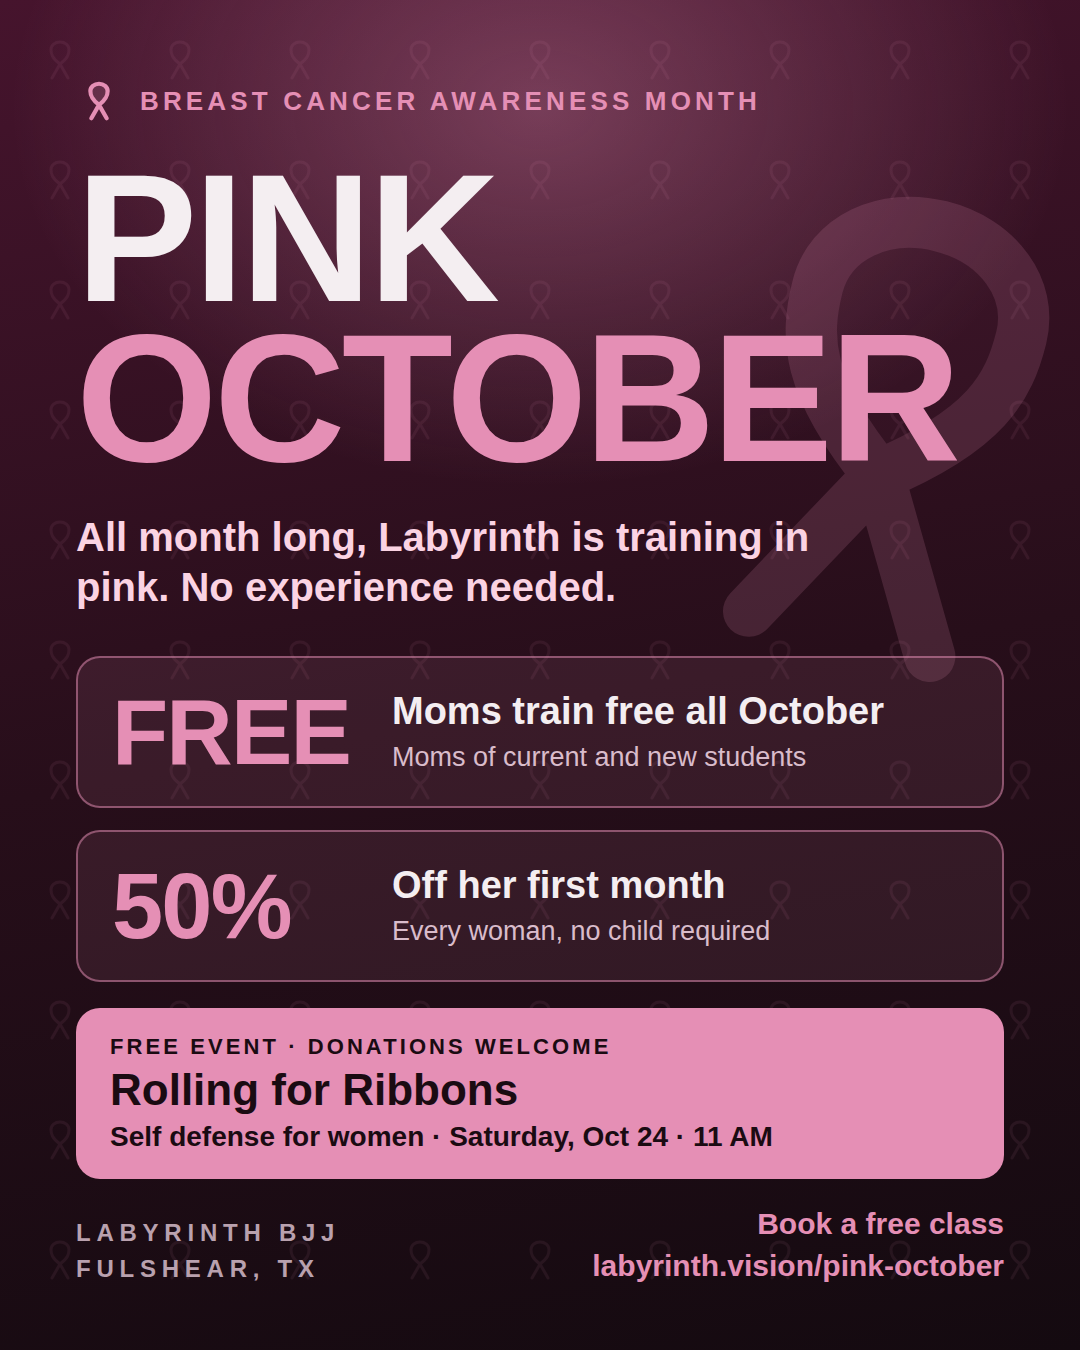
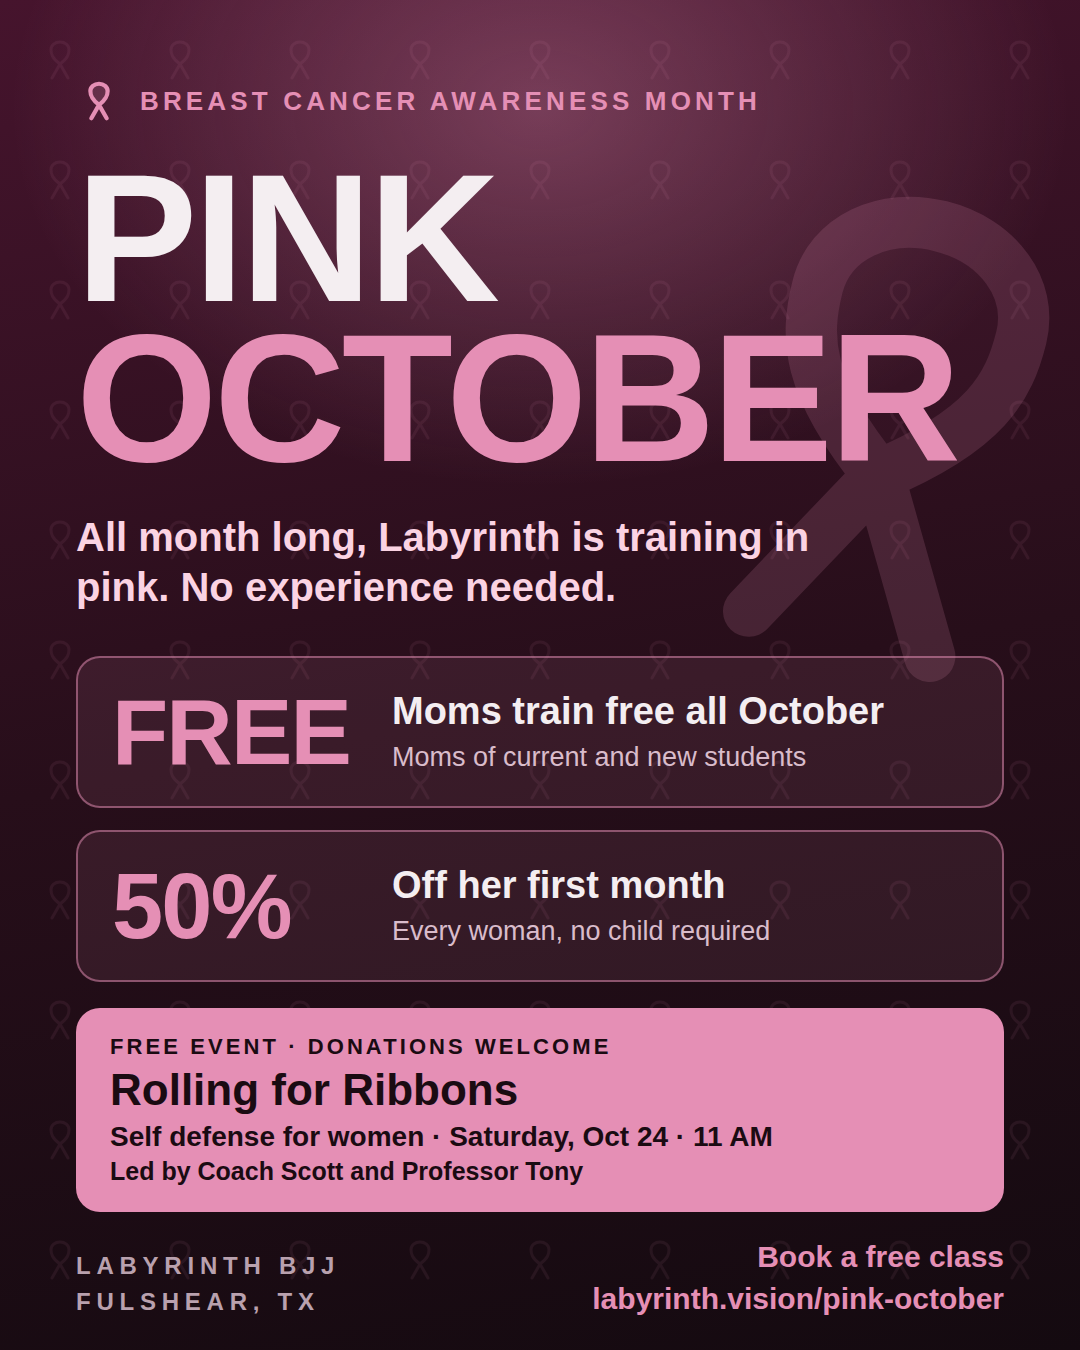
Name the seminar's instructors: Coach Scott and Professor Tony
Adds a Your instructors section to the event page (each card links to the
coach's page), lists both as performers in the Event data, and adds the line to
the Instagram image and caption.

Claude-Session: https://claude.ai/code/session_01T1jcBhMbJVQd3Vp58LzqMh

Changed region(s): [[0.0611, 0.84, 0.9472, 0.9956]]

diff --git a/self-defense-for-women.html b/self-defense-for-women.html
@@ -16,7 +16,7 @@
 <noscript><link href="https://api.fontshare.com/v2/css?f[]=clash-display@400,500,600,700&f[]=general-sans@300,400,500,600,700&display=swap" rel="stylesheet"></noscript>
 <link rel="stylesheet" href="/base.css?v=04502d32">
 <link rel="stylesheet" href="/style.css?v=7df78c7c">
-<link rel="stylesheet" href="/programs.css?v=0acf568b">
+<link rel="stylesheet" href="/programs.css?v=88cbf450">
 <link rel="stylesheet" href="/booking.css?v=6073b089">
 
 <title>Rolling for Ribbons: BJJ for Self Defense for Women | Free Seminar, Oct 24 | Labyrinth BJJ Fulshear</title>
@@ -80,6 +80,18 @@
     "name": "Labyrinth BJJ",
     "url": "https://labyrinth.vision"
   },
+  "performer": [
+    {
+      "@type": "Person",
+      "name": "Scott Jones",
+      "url": "https://labyrinth.vision/coaches/scott-jones"
+    },
+    {
+      "@type": "Person",
+      "name": "Anthony Curry",
+      "url": "https://labyrinth.vision/coaches/anthony-curry"
+    }
+  ],
   "offers": {
     "@type": "Offer",
     "url": "https://labyrinth.vision/self-defense-for-women",
@@ -236,6 +248,33 @@
     </div>
 
     <p class="rsvp__over" id="rsvp-over" hidden>This event has passed. Thank you to everyone who came. See what is coming up on the <a href="/schedule">schedule</a>.</p>
+  </div>
+</section>
+
+<section class="prog-section rsvp-led" id="instructors">
+  <div class="container">
+    <div>
+      <p class="section-label rsvp-label"><svg class="ribbon" width="16" height="16" viewBox="0 0 24 24" fill="none" stroke="currentColor" stroke-width="2.2" stroke-linecap="round" stroke-linejoin="round" aria-hidden="true" focusable="false"><path d="M12 14C8 11 7.5 9 7.5 6.8 7.5 4.6 9.5 3 12 3s4.5 1.6 4.5 3.8C16.5 9 16 11 12 14zM12 14 8 21M12 14l4 7" fill="currentColor" fill-opacity=".18"/></svg>Your instructors</p>
+      <h2 class="section-title section-title--lg">LED BY COACH SCOTT AND PROFESSOR TONY</h2>
+    </div>
+    <div class="rsvp-led__grid">
+      <a class="rsvp-led__card" href="/coaches/scott-jones">
+        <picture><source srcset="/assets/coach-scott.webp" type="image/webp"><img src="/assets/coach-scott.jpg" alt="Coach Scott Jones" width="96" height="96" loading="lazy"></picture>
+        <span class="rsvp-led__body">
+          <strong>Coach Scott Jones</strong>
+          <em>7th dan Taekwondo black belt, BJJ brown belt</em>
+          <span>Scott has a lot of experience with self defense and more than 27 years in MMA. He founded Team Legacy Martial Arts and now coaches full time at Labyrinth.</span>
+        </span>
+      </a>
+      <a class="rsvp-led__card" href="/coaches/anthony-curry">
+        <picture><source srcset="/assets/coach-tony.webp" type="image/webp"><img src="/assets/coach-tony.jpg" alt="Professor Anthony Curry" width="96" height="96" loading="lazy"></picture>
+        <span class="rsvp-led__body">
+          <strong>Professor Anthony Curry</strong>
+          <em>Founder and head instructor, BJJ black belt</em>
+          <span>Tony has trained for more than 14 years and started Labyrinth in Fulshear in 2021. He teaches the jiu-jitsu this seminar is built on.</span>
+        </span>
+      </a>
+    </div>
   </div>
 </section>
 

diff --git a/scripts/instagram-pink-october.html b/scripts/instagram-pink-october.html
@@ -23,6 +23,7 @@
   .event small { display: block; font-size: 22px; font-weight: 800; letter-spacing: .14em; text-transform: uppercase; }
   .event b { display: block; margin-top: 6px; font-size: 44px; line-height: 1.1; font-weight: 900; }
   .event span { display: block; margin-top: 6px; font-size: 28px; font-weight: 700; }
+  .event .led { margin-top: 4px; font-size: 25px; font-weight: 600; }
   .foot { margin-top: auto; padding-top: 24px; display: flex; justify-content: space-between; align-items: flex-end; }
   .brand { font-size: 24px; letter-spacing: .24em; font-weight: 700; color: #b9a1ae; line-height: 1.5; }
   .link { font-size: 30px; font-weight: 800; color: #E58FB5; text-align: right; line-height: 1.4; }
@@ -37,7 +38,7 @@
       <div class="offer"><div class="big">FREE</div><div><b>Moms train free all October</b><span>Moms of current and new students</span></div></div>
       <div class="offer"><div class="big">50%</div><div><b>Off her first month</b><span>Every woman, no child required</span></div></div>
     </div>
-    <div class="event"><small>Free event &middot; Donations welcome</small><b>Rolling for Ribbons</b><span>Self defense for women &middot; Saturday, Oct 24 &middot; 11 AM</span></div>
+    <div class="event"><small>Free event &middot; Donations welcome</small><b>Rolling for Ribbons</b><span>Self defense for women &middot; Saturday, Oct 24 &middot; 11 AM</span><span class="led">Led by Coach Scott and Professor Tony</span></div>
     <div class="foot">
       <div class="brand">LABYRINTH BJJ<br>FULSHEAR, TX</div>
       <div class="link">Book a free class<br>labyrinth.vision/pink-october</div>

diff --git a/programs.css b/programs.css
@@ -1406,3 +1406,29 @@ body.theme-pink main .prog-section--surface {
   letter-spacing: 0.01em;
   color: #fbd3e3;
 }
+
+/* Who leads the seminar: two cards, each linking to the coach's page. */
+.rsvp-led__grid { display: grid; gap: 16px; margin-top: var(--space-6); }
+.rsvp-led__card {
+  display: grid;
+  grid-template-columns: 76px 1fr;
+  gap: 16px;
+  align-items: start;
+  padding: 18px 20px;
+  border: 1px solid var(--awareness-line);
+  border-radius: 14px;
+  background: var(--awareness-soft);
+  color: var(--text);
+  text-decoration: none;
+  transition: border-color 0.2s, transform 0.2s, background 0.2s;
+}
+.rsvp-led__card:hover { border-color: var(--awareness); background: rgba(229, 143, 181, 0.16); transform: translateY(-2px); }
+.rsvp-led__card img { width: 76px; height: 76px; border-radius: 50%; object-fit: cover; border: 2px solid var(--awareness-line); display: block; }
+.rsvp-led__body { display: flex; flex-direction: column; gap: 4px; color: var(--text-muted); font-size: 14.5px; line-height: 1.5; }
+.rsvp-led__body strong { color: var(--text); font-size: 17px; }
+.rsvp-led__body em { color: var(--awareness); font-style: normal; font-weight: 600; font-size: 13.5px; }
+@media (min-width: 760px) {
+  .rsvp-led__grid { grid-template-columns: 1fr 1fr; }
+  .rsvp-led__card { grid-template-columns: 96px 1fr; }
+  .rsvp-led__card img { width: 96px; height: 96px; }
+}

diff --git a/pink-october.html b/pink-october.html
@@ -16,7 +16,7 @@
 <noscript><link href="https://api.fontshare.com/v2/css?f[]=clash-display@400,500,600,700&f[]=general-sans@300,400,500,600,700&display=swap" rel="stylesheet"></noscript>
 <link rel="stylesheet" href="/base.css?v=04502d32">
 <link rel="stylesheet" href="/style.css?v=7df78c7c">
-<link rel="stylesheet" href="/programs.css?v=0acf568b">
+<link rel="stylesheet" href="/programs.css?v=88cbf450">
 <link rel="stylesheet" href="/booking.css?v=6073b089">
 
 <title>Pink October: Moms Train Free, 50% Off for Women | Labyrinth BJJ Fulshear</title>

diff --git a/coaches/scott-jones.html b/coaches/scott-jones.html
@@ -16,7 +16,7 @@
 <noscript><link href="https://api.fontshare.com/v2/css?f[]=clash-display@400,500,600,700&f[]=general-sans@300,400,500,600,700&display=swap" rel="stylesheet"></noscript>
 <link rel="stylesheet" href="/base.css?v=04502d32">
 <link rel="stylesheet" href="/style.css?v=7df78c7c">
-<link rel="stylesheet" href="/programs.css?v=0acf568b">
+<link rel="stylesheet" href="/programs.css?v=88cbf450">
 <link rel="stylesheet" href="/booking.css?v=6073b089">
 
 <title>Scott Jones: MMA Conditioning &amp; Taekwondo | Labyrinth BJJ Fulshear</title>

diff --git a/areas/index.html b/areas/index.html
@@ -16,7 +16,7 @@
 <noscript><link href="https://api.fontshare.com/v2/css?f[]=clash-display@400,500,600,700&f[]=general-sans@300,400,500,600,700&display=swap" rel="stylesheet"></noscript>
 <link rel="stylesheet" href="/base.css?v=04502d32">
 <link rel="stylesheet" href="/style.css?v=7df78c7c">
-<link rel="stylesheet" href="/programs.css?v=0acf568b">
+<link rel="stylesheet" href="/programs.css?v=88cbf450">
 <link rel="stylesheet" href="/booking.css?v=6073b089">
 
 <title>Areas We Serve: Fulshear, Katy, Richmond &amp; Beyond | Labyrinth BJJ</title>

diff --git a/coaches/shaun-lawler.html b/coaches/shaun-lawler.html
@@ -16,7 +16,7 @@
 <noscript><link href="https://api.fontshare.com/v2/css?f[]=clash-display@400,500,600,700&f[]=general-sans@300,400,500,600,700&display=swap" rel="stylesheet"></noscript>
 <link rel="stylesheet" href="/base.css?v=04502d32">
 <link rel="stylesheet" href="/style.css?v=7df78c7c">
-<link rel="stylesheet" href="/programs.css?v=0acf568b">
+<link rel="stylesheet" href="/programs.css?v=88cbf450">
 <link rel="stylesheet" href="/booking.css?v=6073b089">
 
 <title>Prof. Shaun Lawler, Black Belt Professor | Labyrinth BJJ Fulshear</title>

diff --git a/coaches/anthony-curry.html b/coaches/anthony-curry.html
@@ -16,7 +16,7 @@
 <noscript><link href="https://api.fontshare.com/v2/css?f[]=clash-display@400,500,600,700&f[]=general-sans@300,400,500,600,700&display=swap" rel="stylesheet"></noscript>
 <link rel="stylesheet" href="/base.css?v=04502d32">
 <link rel="stylesheet" href="/style.css?v=7df78c7c">
-<link rel="stylesheet" href="/programs.css?v=0acf568b">
+<link rel="stylesheet" href="/programs.css?v=88cbf450">
 <link rel="stylesheet" href="/booking.css?v=6073b089">
 
 <title>Prof. Anthony Curry, Head Instructor &amp; Owner | Labyrinth BJJ</title>

diff --git a/areas/bjj-brookshire.html b/areas/bjj-brookshire.html
@@ -16,7 +16,7 @@
 <noscript><link href="https://api.fontshare.com/v2/css?f[]=clash-display@400,500,600,700&f[]=general-sans@300,400,500,600,700&display=swap" rel="stylesheet"></noscript>
 <link rel="stylesheet" href="/base.css?v=04502d32">
 <link rel="stylesheet" href="/style.css?v=7df78c7c">
-<link rel="stylesheet" href="/programs.css?v=0acf568b">
+<link rel="stylesheet" href="/programs.css?v=88cbf450">
 <link rel="stylesheet" href="/booking.css?v=6073b089">
 
 <title>Brazilian Jiu-Jitsu for Brookshire, TX | Labyrinth BJJ Fulshear</title>

diff --git a/coaches/index.html b/coaches/index.html
@@ -16,7 +16,7 @@
 <noscript><link href="https://api.fontshare.com/v2/css?f[]=clash-display@400,500,600,700&f[]=general-sans@300,400,500,600,700&display=swap" rel="stylesheet"></noscript>
 <link rel="stylesheet" href="/base.css?v=04502d32">
 <link rel="stylesheet" href="/style.css?v=7df78c7c">
-<link rel="stylesheet" href="/programs.css?v=0acf568b">
+<link rel="stylesheet" href="/programs.css?v=88cbf450">
 <link rel="stylesheet" href="/booking.css?v=6073b089">
 
 <title>Our Coaches: Black Belt Instructors in Fulshear | Labyrinth BJJ</title>

diff --git a/areas/bjj-rosenberg.html b/areas/bjj-rosenberg.html
@@ -16,7 +16,7 @@
 <noscript><link href="https://api.fontshare.com/v2/css?f[]=clash-display@400,500,600,700&f[]=general-sans@300,400,500,600,700&display=swap" rel="stylesheet"></noscript>
 <link rel="stylesheet" href="/base.css?v=04502d32">
 <link rel="stylesheet" href="/style.css?v=7df78c7c">
-<link rel="stylesheet" href="/programs.css?v=0acf568b">
+<link rel="stylesheet" href="/programs.css?v=88cbf450">
 <link rel="stylesheet" href="/booking.css?v=6073b089">
 
 <title>Brazilian Jiu-Jitsu for Rosenberg, TX | Labyrinth BJJ Fulshear</title>

diff --git a/programs/index.html b/programs/index.html
@@ -16,7 +16,7 @@
 <noscript><link href="https://api.fontshare.com/v2/css?f[]=clash-display@400,500,600,700&f[]=general-sans@300,400,500,600,700&display=swap" rel="stylesheet"></noscript>
 <link rel="stylesheet" href="/base.css?v=04502d32">
 <link rel="stylesheet" href="/style.css?v=7df78c7c">
-<link rel="stylesheet" href="/programs.css?v=0acf568b">
+<link rel="stylesheet" href="/programs.css?v=88cbf450">
 <link rel="stylesheet" href="/booking.css?v=6073b089">
 
 <title>Programs: Kids & Adult BJJ, Wrestling | Labyrinth BJJ Fulshear</title>
